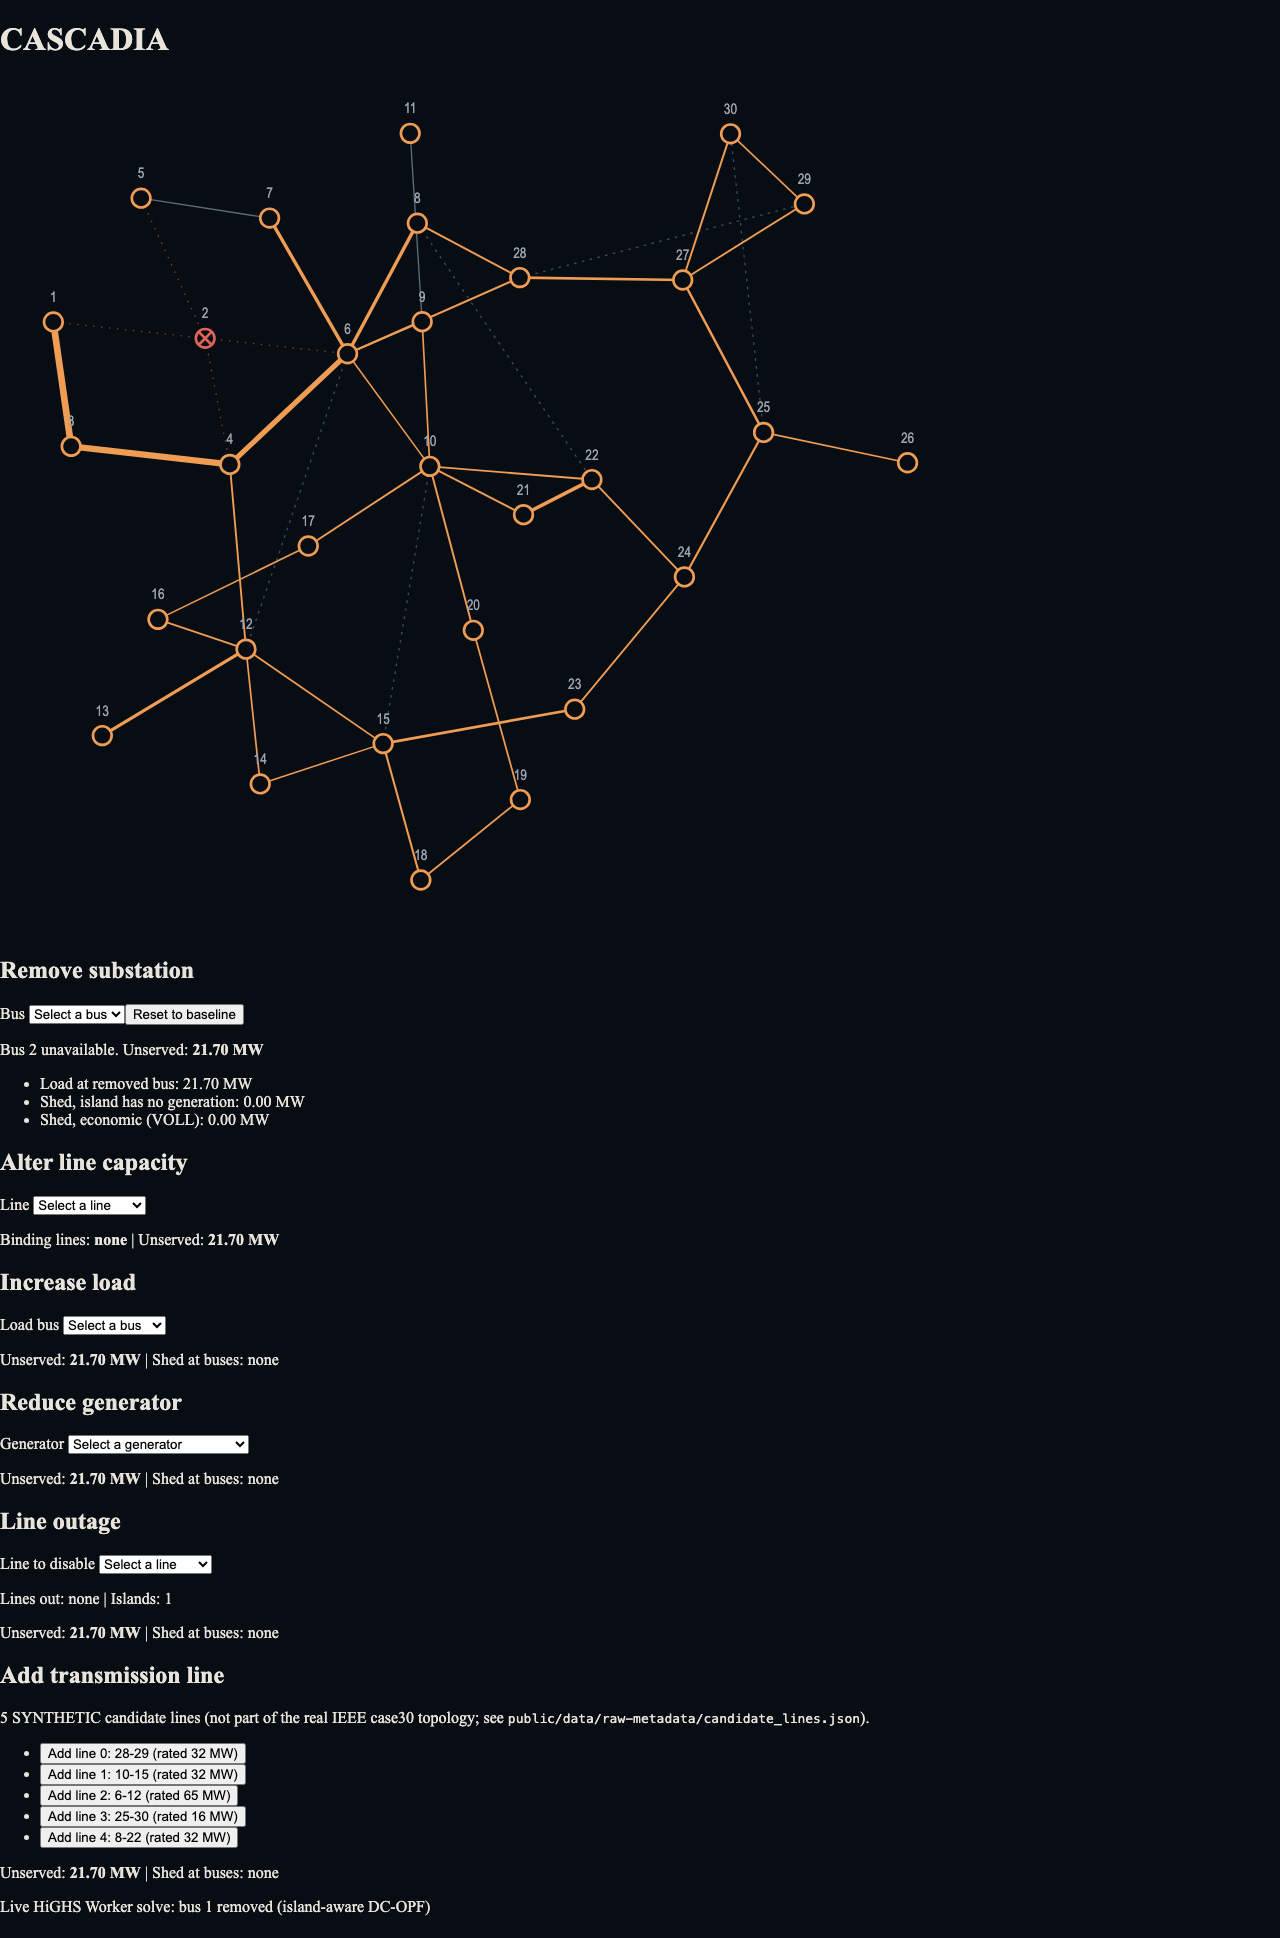
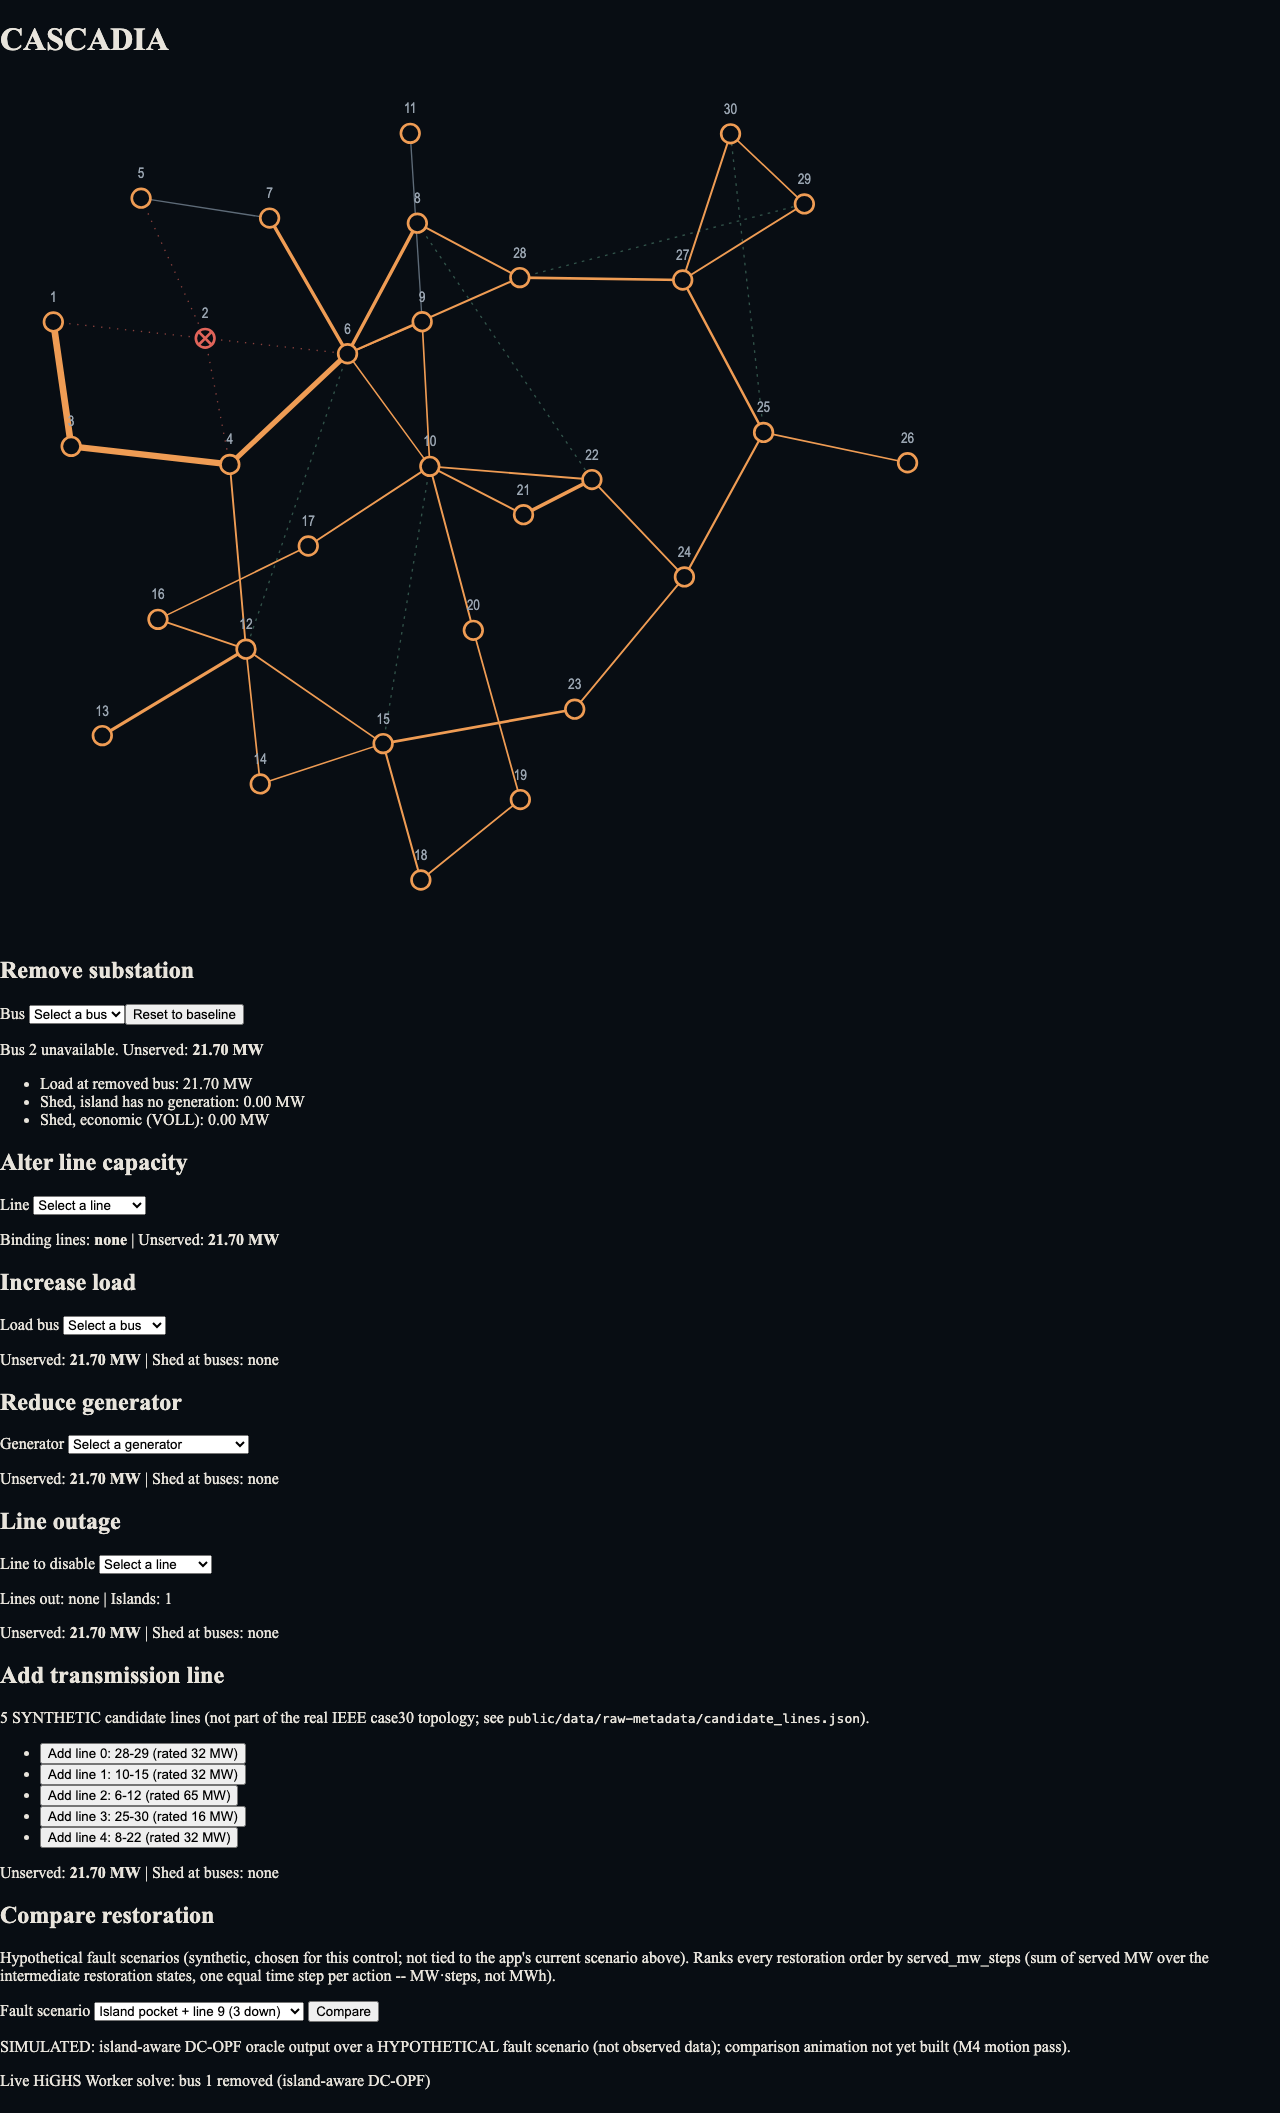
CAS-INT-006 (compare restoration): isolated-Worker UI + e2e
New src/interactions/CompareRestoration.tsx: 4 hardcoded preset fault
scenarios mirroring research/evaluate/add_line_restoration.py's RESTORE
dict exactly (k=2/3/3/5 down-elements, ranking 2/6/6/120 orders by
served_mw_steps). Standalone "what if" query, not routed through state.tsx's
shared base()/pendingRef scenario machinery -- it doesn't mutate the app's
current scenario.

Gets its OWN private Worker/lpClient, deliberately NOT the shared one.
Confirmed directly why this matters, per advisor guidance: lpClient's
latest-wins supersede queue rejects every other pending request the instant
a new one fires, so a rank() query sharing the main queue would silently
cancel (SupersededError, swallowed without clearing solve/pending) whatever
scenario solve was already in flight on another control -- that control
would then show "Solving..." forever with no error. Mutation-checked with a
temporary debug hack forcing the shared client: 3/3 runs hung exactly as
predicted (confirm-removal never reached data-state="removed"); reverted
the hack, 3/3 pass with real isolation.

e2e/compareRestoration.spec.ts: one test per preset pinning the UI's rank-1
order and served_mw_steps against verification/REFERENCE_RESULTS/
add_line_restoration.json directly (catches drift if the hardcoded TS
presets and the Python RESTORE dict diverge), a chosen-order-detail test,
and the isolation mutation-check test above.

REQUIREMENTS.yaml: explicitly notes the "then" clause's comparison
[…]

diff --git a/src/interactions/CompareRestoration.tsx b/src/interactions/CompareRestoration.tsx
@@ -1,0 +1,114 @@
+import { useEffect, useRef, useState } from 'react'
+import { useApp } from '../app/state'
+import { createLpClient, SupersededError } from '../workers/lpClient'
+import type { DownElement, RestoreSeq } from '../engine/dcopf'
+
+// CAS-INT-006. Presets mirror research/evaluate/add_line_restoration.py's RESTORE dict exactly (pinned
+// by e2e/compareRestoration.spec.ts against verification/REFERENCE_RESULTS/add_line_restoration.json).
+const PRESETS: { id: string; label: string; down: DownElement[] }[] = [
+  { id: 'island_pocket_plus_line9', label: 'Island pocket + line 9 (3 down)', down: [{ kind: 'line', id: 36 }, { kind: 'line', id: 37 }, { kind: 'line', id: 9 }] },
+  { id: 'bus_and_lines', label: 'Bus 26 + two lines (3 down)', down: [{ kind: 'bus', id: 26 }, { kind: 'line', id: 34 }, { kind: 'line', id: 9 }] },
+  { id: 'two_buses', label: 'Two buses (2 down)', down: [{ kind: 'bus', id: 11 }, { kind: 'bus', id: 26 }] },
+  { id: 'k5_mixed', label: 'Mixed k=5 (5 down, 120 orders)', down: [{ kind: 'line', id: 36 }, { kind: 'line', id: 37 }, { kind: 'line', id: 9 }, { kind: 'bus', id: 11 }, { kind: 'line', id: 3 }] },
+]
+const TOP_SHOWN = 5
+const factorial = (n: number): number => (n <= 1 ? 1 : n * factorial(n - 1))
+
+// Deliberately NOT routed through the shared base()/pendingRef scenario machinery in state.tsx: this is
+// a standalone "what if" query over a hypothetical fault, not a mutation of the app's current scenario.
+// It also gets its OWN private Worker/lpClient rather than reusing the shared one -- lpClient's
+// latest-wins supersede queue rejects every other pending request the instant a new one fires, so a
+// rank() query sharing the main queue would silently cancel (and permanently hang, since
+// SupersededError is swallowed without clearing `solve`/`pending`) any other control's in-flight solve.
+// Confirmed directly as a real D1-class bug before this isolation was added.
+function useRankClient() {
+  const ref = useRef<ReturnType<typeof createLpClient>>(undefined)
+  const workerRef = useRef<Worker>(undefined)
+  useEffect(() => () => workerRef.current?.terminate(), [])
+  return () => {
+    if (!ref.current) {
+      workerRef.current = new Worker(new URL('../workers/lpWorker.ts', import.meta.url), { type: 'module' })
+      ref.current = createLpClient(workerRef.current as never)
+    }
+    return ref.current
+  }
+}
+
+export function CompareRestoration() {
+  const { state } = useApp()
+  const { network, candidates } = state
+  const getClient = useRankClient()
+  const [presetId, setPresetId] = useState(PRESETS[0].id)
+  const [status, setStatus] = useState<'idle' | 'loading' | 'error'>('idle')
+  const [error, setError] = useState<string>()
+  const [ranking, setRanking] = useState<RestoreSeq[]>()
+  const [chosen, setChosen] = useState(0) // index into `ranking`
+  const mounted = useRef(true)
+  useEffect(() => () => { mounted.current = false }, [])
+  if (!network) return null
+  const preset = PRESETS.find((p) => p.id === presetId)!
+
+  const compare = async () => {
+    setStatus('loading'); setError(undefined); setRanking(undefined); setChosen(0)
+    try {
+      const r = await getClient().rank(network, preset.down, {}, candidates)
+      if (!mounted.current) return
+      setRanking(r); setStatus('idle')
+    } catch (e) {
+      if (!mounted.current) return
+      if (e instanceof SupersededError) return // superseded by a later compare() call (re-picking a preset mid-rank)
+      setStatus('error'); setError(e instanceof Error ? e.message : String(e))
+    }
+  }
+
+  const shown = ranking ? [...new Set([...ranking.slice(0, TOP_SHOWN).map((_, i) => i), chosen])].sort((a, b) => a - b) : []
+  const best = ranking?.[0]
+  const sel = ranking?.[chosen]
+
+  return (
+    <section aria-labelledby="cr-h">
+      <h2 id="cr-h">Compare restoration</h2>
+      <p>Hypothetical fault scenarios (synthetic, chosen for this control; not tied to the app&apos;s current scenario above). Ranks every restoration order by served_mw_steps (sum of served MW over the intermediate restoration states, one equal time step per action -- MW&middot;steps, not MWh).</p>
+      <label>Fault scenario{' '}
+        <select value={presetId} disabled={status === 'loading'} onChange={(e) => { setPresetId(e.target.value); setRanking(undefined) }}>
+          {PRESETS.map((p) => <option key={p.id} value={p.id}>{p.label}</option>)}
+        </select>
+      </label>{' '}
+      <button disabled={status === 'loading'} onClick={() => void compare()}>Compare</button>
+      {status === 'loading' && <p role="status">Ranking {factorial(preset.down.length)} orders in Worker...</p>}
+      {status === 'error' && <p role="alert">Rank failed: {error}</p>}
+      {ranking && best && sel && (
+        <>
+          <p role="status" aria-live="polite">
+            <span data-testid="cr-n-orders">{ranking.length}</span> orders ranked. Best: rank {best.rank}, order [{best.order.join(', ')}], <span data-testid="cr-best-served">{best.served_mw_steps.toFixed(2)}</span> MW&middot;steps.
+          </p>
+          <ul>
+            {shown.map((i) => {
+              const r = ranking[i]
+              return (
+                <li key={i}>
+                  <button aria-pressed={i === chosen} onClick={() => setChosen(i)}>
+                    rank {r.rank}: order [{r.order.join(', ')}], {r.served_mw_steps.toFixed(2)} MW&middot;steps
+                  </button>
+                </li>
+              )
+            })}
+          </ul>
+          <div role="group" aria-label="Chosen order detail">
+            <p>Chosen: rank <span data-testid="cr-chosen-rank">{sel.rank}</span> of {ranking.length}, order [{sel.order.join(', ')}] -- <span data-testid="cr-chosen-served">{sel.served_mw_steps.toFixed(2)}</span> MW&middot;steps
+              {sel !== best && <> ({(best.served_mw_steps - sel.served_mw_steps).toFixed(2)} MW&middot;steps behind best)</>}</p>
+            <ol>
+              {sel.steps.map((s) => (
+                <li key={s.step}>step {s.step}{s.restored.length ? ` (restored #${s.restored[0]})` : ' (nothing restored yet)'}: {s.status === 'infeasible' ? 'n/a (infeasible)' : `${s.served_mw.toFixed(2)} MW served`}</li>
+              ))}
+            </ol>
+          </div>
+        </>
+      )}
+      {/* deliberately NOT className="provenance" -- that class is the shared scenario's own label
+          elsewhere in App.tsx; reusing it here would make every `.provenance` locator in the existing
+          e2e suite match 2 elements once this control renders, a Playwright strict-mode violation */}
+      <p data-testid="cr-provenance">SIMULATED: island-aware DC-OPF oracle output over a HYPOTHETICAL fault scenario (not observed data); comparison animation not yet built (M4 motion pass).</p>
+    </section>
+  )
+}

diff --git a/e2e/compareRestoration.spec.ts b/e2e/compareRestoration.spec.ts
@@ -1,0 +1,59 @@
+// e2e coverage for CAS-INT-006 (compare restoration) against the real production build/Worker.
+import { expect, test, type Page } from "@playwright/test";
+
+async function withWasmDelay(page: Page, ms: number) {
+  await page.route("**/*.wasm", async (route) => {
+    if (ms) await new Promise((r) => setTimeout(r, ms));
+    await route.continue();
+  });
+}
+
+// Reference values from verification/REFERENCE_RESULTS/add_line_restoration.json's restoration_cases,
+// derived from the Python oracle via research/evaluate/add_line_restoration.py's RESTORE dict -- pins
+// CompareRestoration.tsx's hardcoded PRESETS against the source of truth, so the two can't silently
+// drift apart.
+const REFERENCE = {
+  island_pocket_plus_line9: { n_orders: 6, best_order: "0, 1, 2", best_served: "554.60" },
+  bus_and_lines: { n_orders: 6, best_order: "0, 1, 2", best_served: "554.60" },
+  two_buses: { n_orders: 2, best_order: "1, 0", best_served: "343.00" },
+  k5_mixed: { n_orders: 120, best_order: "0, 3, 1, 2, 4", best_served: "910.60" },
+};
+
+for (const [label, ref] of Object.entries(REFERENCE)) {
+  test(`pinned to the Python oracle: ${label} ranks ${ref.n_orders} orders, best is [${ref.best_order}] at ${ref.best_served}`, async ({ page }) => {
+    await page.goto("/");
+    await page.locator('section:has-text("Compare restoration") select').selectOption(label);
+    await page.getByRole("button", { name: "Compare" }).click();
+    await expect(page.getByTestId("cr-n-orders")).toHaveText(String(ref.n_orders), { timeout: 5000 });
+    await expect(page.getByTestId("cr-best-served")).toHaveText(ref.best_served);
+    await expect(page.locator('section:has-text("Compare restoration")')).toContainText(`order [${ref.best_order}]`);
+  });
+}
+
+test("choosing a non-best order shows its own rank and the gap behind the best", async ({ page }) => {
+  await page.goto("/");
+  await page.getByRole("button", { name: "Compare" }).click(); // default preset: island_pocket_plus_line9
+  await expect(page.getByTestId("cr-n-orders")).toHaveText("6", { timeout: 5000 });
+  const rows = page.locator('section:has-text("Compare restoration") li button');
+  await expect(rows).toHaveCount(5); // TOP_SHOWN=5 of 6 orders shown by default (rank 1 already chosen)
+  await rows.nth(4).click(); // pick a lower-ranked order
+  await expect(page.getByTestId("cr-chosen-rank")).not.toHaveText("1");
+  await expect(page.locator('div[aria-label="Chosen order detail"]')).toContainText("behind best");
+});
+
+test("isolation: Compare's own request does not hang an unrelated control's in-flight solve", async ({ page }) => {
+  // The REAL D1-class risk this isolated private Worker prevents: if Compare shared the main lpClient's
+  // request queue, its rank() call would reject (via SupersededError) whatever scenario solve was
+  // already in flight -- and since state.tsx swallows SupersededError without clearing `solve`/
+  // `pending`, that control would be stuck showing "Solving..." forever, with no error and no result.
+  await withWasmDelay(page, 1500);
+  await page.goto("/");
+  await page.locator('[data-testid="bus"][data-bus="26"]').focus();
+  await page.keyboard.press("Enter");
+  await page.getByRole("button", { name: "Confirm removal" }).focus();
+  await page.keyboard.press("Enter"); // removal solve in flight (~1.5s, shared Worker's first solve)
+  await page.getByRole("button", { name: "Compare" }).click(); // Compare's own private Worker also loads its own WASM now
+  await expect(page.locator('[data-testid="bus"][data-bus="26"]')).toHaveAttribute("data-state", "removed", { timeout: 10000 });
+  await expect(page.getByText(/Solving/)).toHaveCount(0, { timeout: 10000 });
+  await expect(page.getByTestId("cr-n-orders")).toHaveText("6", { timeout: 10000 });
+});

diff --git a/src/app/App.tsx b/src/app/App.tsx
@@ -5,6 +5,7 @@ import { IncreaseLoad } from '../interactions/IncreaseLoad'
 import { ReduceGenerator } from '../interactions/ReduceGenerator'
 import { LineOutage } from '../interactions/LineOutage'
 import { AddLine } from '../interactions/AddLine'
+import { CompareRestoration } from '../interactions/CompareRestoration'
 import { NetworkView } from '../visualization/NetworkView'
 
 export function Scene() {
@@ -30,6 +31,7 @@ export function Scene() {
       <ReduceGenerator />
       <LineOutage />
       <AddLine />
+      <CompareRestoration />
       <p className="provenance">{state.result.label}</p>
     </main>
   )
